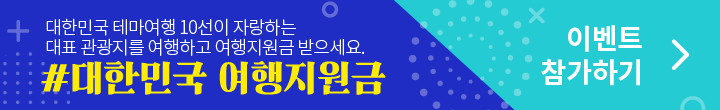
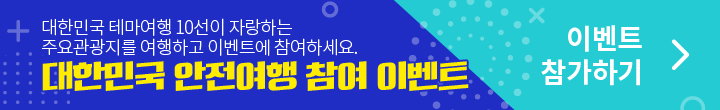
테마10선 이벤트 수정

Changed region(s): [[0.0306, 0.5455, 0.6722, 0.8727], [0.0611, 0.3545, 0.5194, 0.5182], [0.0611, 0.1636, 0.3972, 0.3273]]

diff --git a/src/components/MainGiftView.vue b/src/components/MainGiftView.vue
@@ -1,7 +1,7 @@
 <template>
   <div>
     <swiper :options="swiperOption" class="swiper swiperbut" v-if="this.mingleCode !== 'YQTt4DYGRx7iBHRXs2IlPA=='">
-        <swiper-slide v-if="this.mingleCode === 'iQxiUpF8ZfaGodRQJ6s0mg==' && fullPathChk(this)">
+        <swiper-slide v-if="this.mingleCode === 'iQxiUpF8ZfaGodRQJ6s0mg==' && fullPathChk()">
             <div
               class="themaBanner"
               :style="{ 'background-image': themaBanner() }"
@@ -81,7 +81,7 @@ export default {
       const url = require('@/assets/images/allthat_home_banner_wonju.png')
       return `url(${url})`
     },
-    fullPathChk (data) {
+    fullPathChk () {
       let chk = false
       if (location.href.indexOf('stagestamp') > -1) {
         chk = true

diff --git a/src/components/event/Thema10Example.vue b/src/components/event/Thema10Example.vue
@@ -33,8 +33,8 @@ export default {
           warning: '* 인증샷은 마스크 착용 필수!'
         },
         {
-          title: '숙박 영수증 인증은<br>이벤트 대상 숙소에서 발급받은<br><span>실물 종이 영수증</span>만 인정됩니다.',
-          image: require('@/assets/images/event/example2.png'),
+          title: '<span>숙박 결제 영수증</span>(종이/모바일)과<br/>이용이 완료된 <span>숙박 예약확인서</span>를<br/>첨부해주세요',
+          image: require('@/assets/images/event/example2_2.jpg'),
           warning: '(간이 영수증은 인정 안됨)'
         }
       ]

diff --git a/src/assets/css/style.css b/src/assets/css/style.css
@@ -935,12 +935,13 @@ header .head_back span {
     font-family:inaviL;
     font-size: 14px;
     color:#010101;
-    line-height: 15px;
+    line-height: 16px;
     font-weight: normal;
     width: calc(100% - 60px);
-    overflow: hidden;
+    word-break: keep-all;
+    /* overflow: hidden;
     text-overflow: ellipsis;
-    white-space: nowrap;
+    white-space: nowrap; */
 }
 .course_box ul.list li .box_rt p {
     font-family:inaviL;

diff --git a/src/views/event/Thema10.vue b/src/views/event/Thema10.vue
@@ -1,7 +1,7 @@
 <template>
   <div class="view_stamp">
     <!-- 헤더 -->
-    <Head type='back' name='view_stamp' title='테마여행 10선' />
+    <Head type='back' name='view_stamp' title='대한민국 안전여행 참여 이벤트' />
     <div>
       <tabs :options="{ useUrlFragment: false }" @changed="tabChanged">
         <tab name="이벤트 소개">

diff --git a/src/components/event/Thema10Intro.vue b/src/components/event/Thema10Intro.vue
@@ -22,8 +22,6 @@
                 2차 . 2020.08.01 ~ 2020.08.31<br/>
                 3차 . 2020.09.01 ~ 2020.09.30<br/>
                 4차 . 2020.10.01 ~ 2020.10.31<br/>
-                5차 . 2020.11.01 ~ 2020.11.30<br/>
-                * 소진시, 이벤트 조기 종료<br/>
               </span>
             </p>
             <p class="ptxt">
